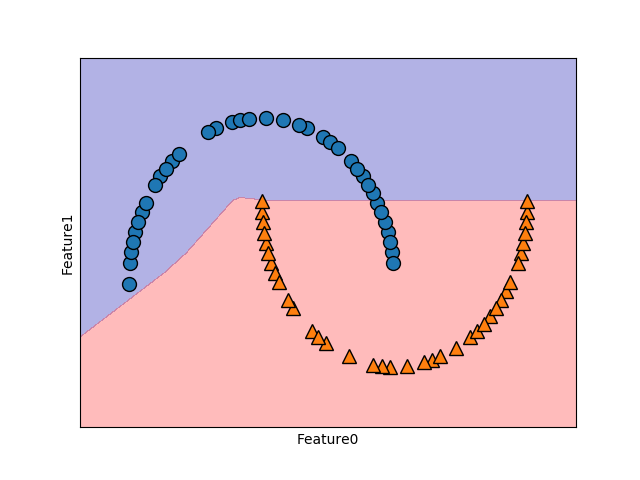
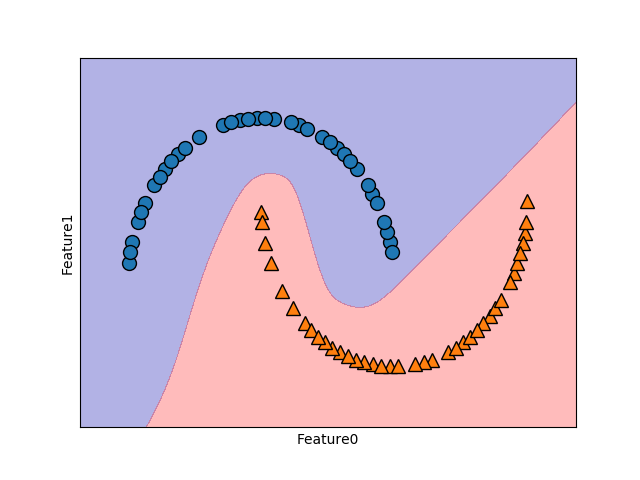
deep learning changes additions and Categorical example

Changed region(s): [[0.125, 0.2188, 0.9062, 0.9062], [0.4688, 0.625, 0.7812, 0.7812]]

diff --git a/Supervised/Classification/Categorical/OneHot.py b/Supervised/Classification/Categorical/OneHot.py
@@ -1,0 +1,57 @@
+import sys
+sys.path.append('/home/ubuntu/workspace/utils')
+
+import os 
+import mglearn as mglearn
+import pandas as pd
+from IPython.display import display
+from sklearn.linear_model import LogisticRegression 
+from sklearn.model_selection import train_test_split
+
+# The file has no headers naming the columns, so we pass header=None 
+# and provide the column names explicitly in "names" 
+
+adult_path = os.path.join(mglearn.datasets.DATA_PATH,"adult.data")
+
+cols=['age','workclass','fnlwgt','education','education-num','marital-status','occupation','relationship','race','gender','capital-gain','capital-loss','hours-per-week','native-country' , 'income' ] 
+data = pd.read_csv(adult_path,header=None,index_col=False,names=cols)
+
+display(data.head()) 
+
+print (data.gender.value_counts())
+
+print("Original features:\n",data.columns,"\n")
+data_dummies = pd.get_dummies(data)
+print("Features after get_dummies:\n",data_dummies.columns)
+
+display(data_dummies.head())
+ 
+# loc allows you to access rows and columns using lables and array/slice notation
+# loc[row, colum] where row and columns can be slices that are inclusive
+
+# for example, first three rows, all columns from age to occupation_ Transport-moving
+features = data_dummies.loc[0:2, 'age' : 'occupation_ Transport-moving'] 
+display(features)
+
+# or all rows, all columns from age to occupation_ Transport-moving
+features = data_dummies.loc[:, 'age' : 'occupation_ Transport-moving'] 
+
+# Extract NumPy arrays 
+X = features.values
+y = data_dummies[ 'income_ >50K' ].values 
+print ( "X.shape: {} y.shape: {}" . format ( X . shape , y . shape )) 
+
+# Logistic Regression is used when the dependent variable(target) is categorical.
+# It is a simple form of classification.
+# For example,
+# To predict whether an email is spam (1) or (0)
+# To predict whether someone will make less than 50k (0) or more than 50k (1)
+
+X_train,X_test,y_train,y_test = train_test_split(X,y,random_state=0)
+logreg=LogisticRegression(solver='lbfgs')
+logreg.fit(X_train,y_train)
+print("Testscore: {:.2f}".format(logreg.score(X_test,y_test)))
+
+
+
+

diff --git a/Supervised/Classification/Categorical/OneHot2.py b/Supervised/Classification/Categorical/OneHot2.py
@@ -1,0 +1,21 @@
+import pandas as pd
+from IPython.display import display
+
+# what if I have an integer feature that encodes categorical data
+# and I want to "one hot dummy" it?
+
+# create the DataFrame...
+print("Before...")
+demo_df = pd.DataFrame({'Integer Feature':[0,1,2,1],'Categorical Feature':['socks','fox','socks','box']})
+display(demo_df)
+
+# convert integer feature to string...
+print("After...")
+demo_df['Integer Feature'] = demo_df['Integer Feature'].astype(str)
+
+# then one hot dummy it...
+dummy = pd.get_dummies(demo_df,columns=['Integer Feature','Categorical Feature'])
+pd.set_option('display.max_columns', 6)
+display(dummy)
+
+

diff --git a/Supervised/Classification/DeepLearning/Cancer/train_test_predict.cancer.py b/Supervised/Classification/DeepLearning/Cancer/train_test_predict.cancer.py
@@ -19,13 +19,13 @@ cancer = load_breast_cancer()
 X = cancer.data
 y = cancer.target
 
-# scaler = MinMaxScaler() 
-# X = scaler.fit_transform(X) 
+scaler = MinMaxScaler() 
+X = scaler.fit_transform(X) 
 
 X_train, X_test, y_train, y_test = train_test_split(X, y, random_state = 8)
 
 print('Training...')
-mlp = MLPClassifier(solver = 'lbfgs' , random_state = 42, hidden_layer_sizes = [ 10 ], activation = 'relu') #tanh 
+mlp = MLPClassifier(solver = 'lbfgs' , random_state = 42, hidden_layer_sizes = [ 10, 10 ], activation = 'tanh') #tanh 
 mlp.fit( X_train , y_train ) 
 
 print('Testing...')

diff --git a/Supervised/Classification/DeepLearning/TwoMoons/train_test_predict.py b/Supervised/Classification/DeepLearning/TwoMoons/train_test_predict.py
@@ -12,7 +12,7 @@ X, y = make_moons()
 X_train, X_test, y_train, y_test = train_test_split(X, y, random_state = 3)
 
 print('Training...')
-mlp = MLPClassifier(solver = 'lbfgs' , random_state = 42, hidden_layer_sizes = [ 10 ], activation = 'relu') #tanh 
+mlp = MLPClassifier(solver = 'lbfgs' , random_state = 42, hidden_layer_sizes = [ 10 ], activation = 'tanh') #tanh 
 mlp.fit( X_train , y_train ) 
 
 print('Testing...')

diff --git a/Supervised/Classification/DeepLearning/TwoMoons/structure.py b/Supervised/Classification/DeepLearning/TwoMoons/structure.py
@@ -7,12 +7,6 @@ import mglearn as mglearn
 from IPython.display import display
 import pydot 
 
-# mglearn.plots.plot_logistic_regression_graph()
-# mglearn.plots.plot_single_hidden_layer_graph()
-# mglearn.plots.plot_two_hidden_layer_graph()
-# plt.savefig(r"structure.png")
-
-
 dot = mglearn.plots.plot_logistic_regression_graph()
 dot.format = 'png'
 dot.render(filename='structure1');  
